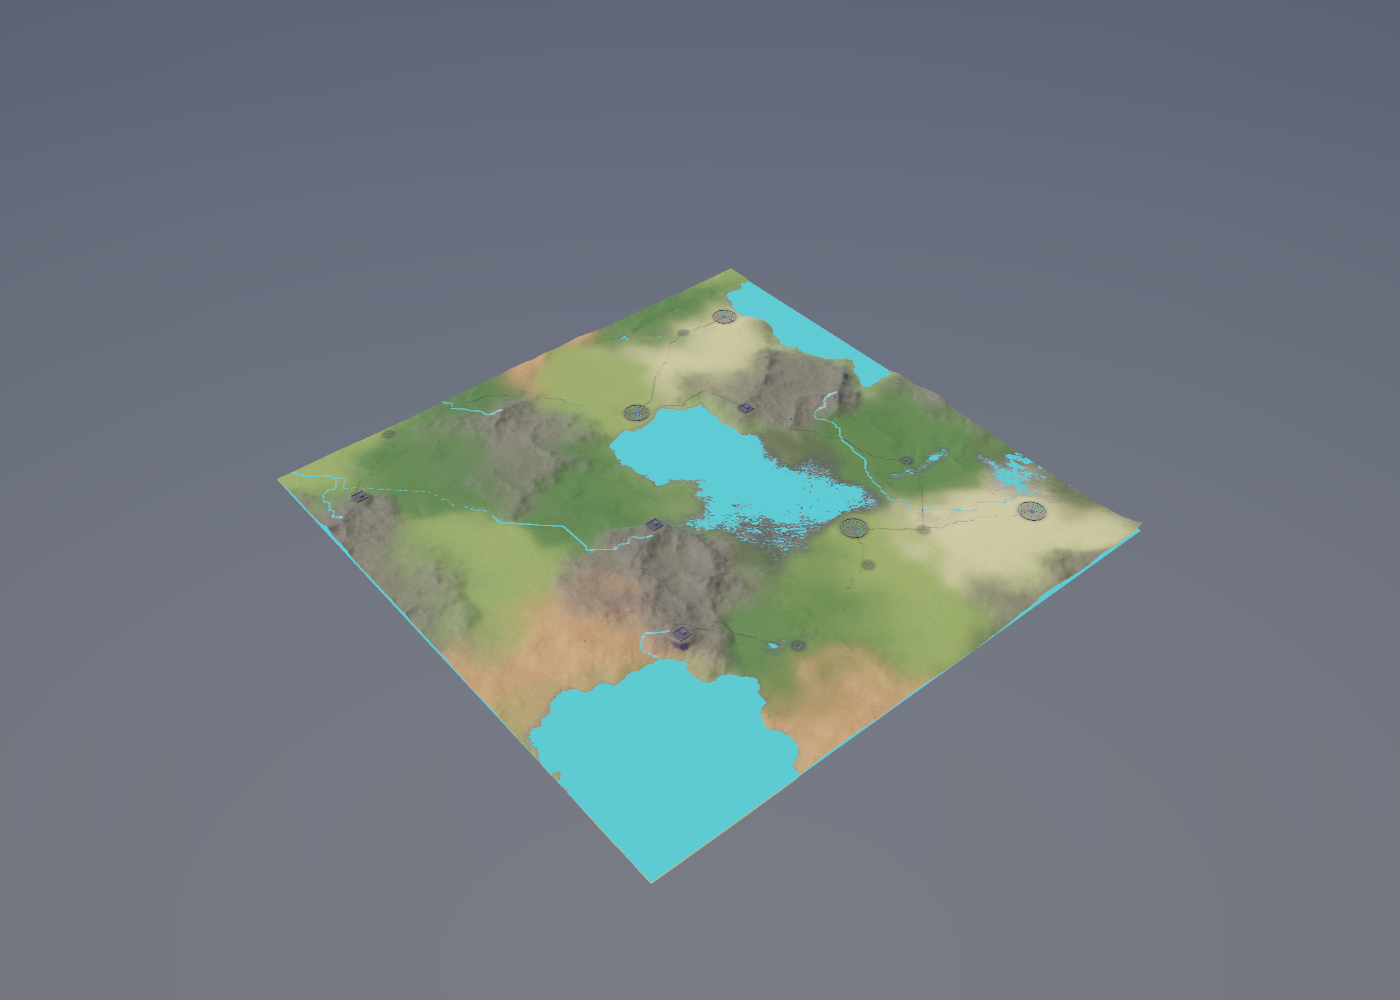
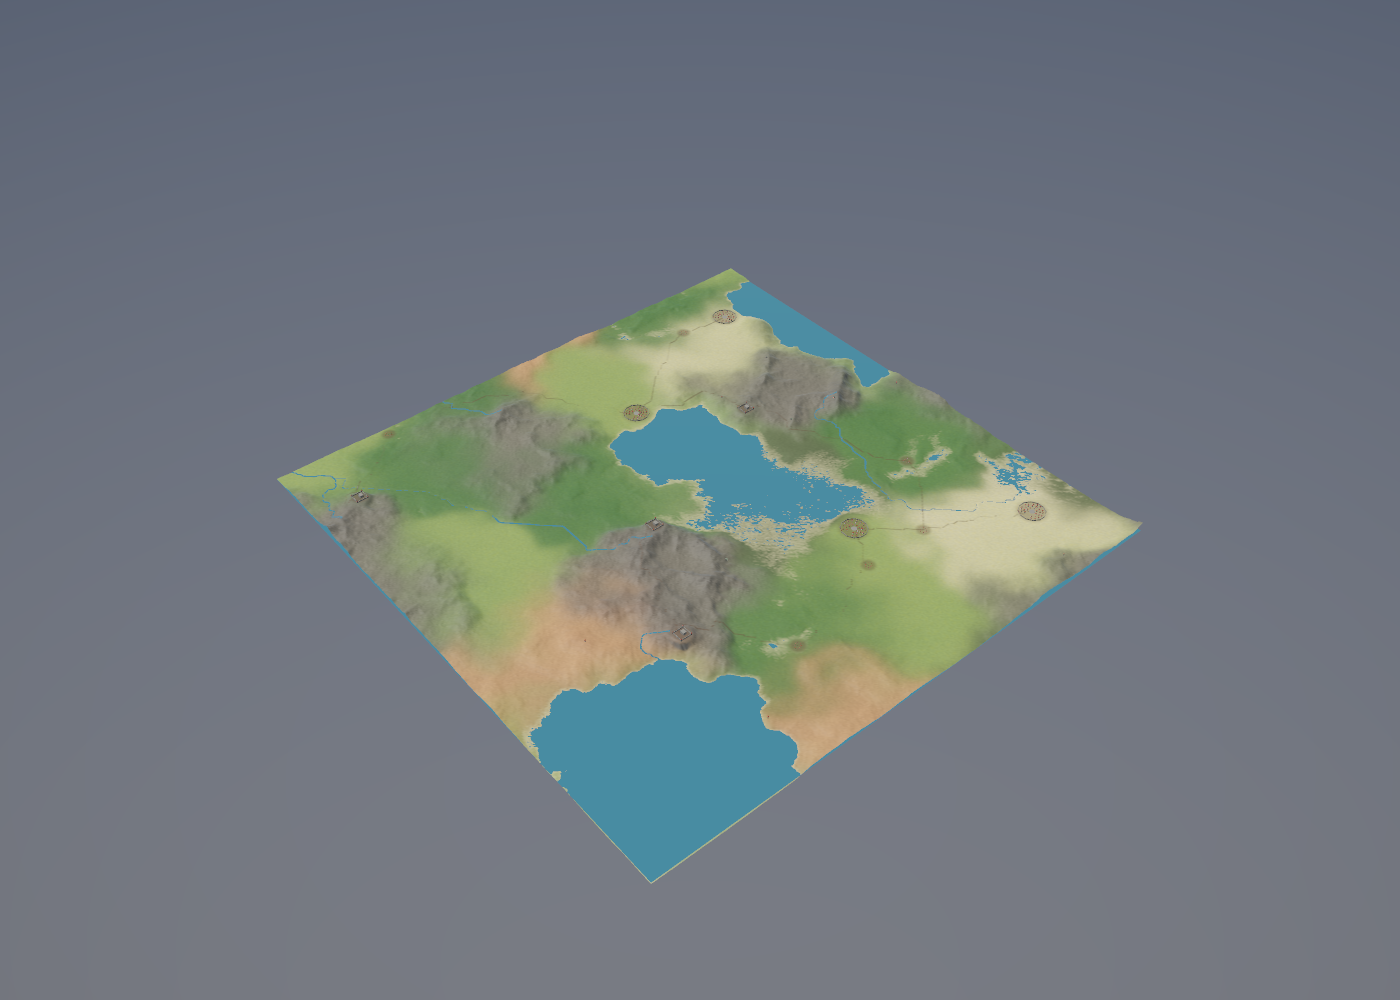
fix: natural fantasy colors for Ravenspire + kill chalky river margins
The mystic palette read as broken colors at world scale (purple forests,
cyan roofs/water) — Ravenspire moves to verdant: green woods, warm red
roofs, deep blue water, same seed-12 layout. Two ground-color fixes
found by chasing the white smears along rivers in the flyovers:
waterfall whitening fired along EVERY carved channel (the carve itself
makes banks steeper than the slope threshold) and is removed; shoreline
foam is now a thin broken surf line gated to flat beaches instead of a
chalky band across wide banks. Everdale + Ravenspire gallery imagery
regenerated with the corrected colors.

diff --git a/src/world/model.rs b/src/world/model.rs
@@ -247,15 +247,13 @@ impl WorldModel {
             let ripple = self.n.sample(wx / 7.0 + wz / 2.3, wz / 34.0);
             c *= 1.0 + ripple * 0.06 * desert;
         }
-        // waterfall whitening where a river channel drops steeply
-        if slope > 0.35 && self.network.river_mask(wx, wz) > 0.0 {
-            c = crate::palette::lerp(c, Vec3::new(0.80, 0.87, 0.90), 0.5);
-        }
-        // shoreline foam band just above the waterline
-        let foam = (1.0 - ((h - sea - 0.25) / 0.45).abs()).clamp(0.0, 1.0);
+        // shoreline foam: a thin, broken surf line right at the waterline —
+        // flat beaches only (wide banks turned into chalky margins)
+        let foam = (1.0 - ((h - sea - 0.12) / 0.16).abs()).clamp(0.0, 1.0)
+            * (1.0 - (slope / 0.25).min(1.0));
         if foam > 0.0 {
-            let fnz = self.n.sample(wx * 0.9 + 3.0, wz * 0.9) * 0.5 + 0.5;
-            c = crate::palette::lerp(c, Vec3::splat(0.90), foam * fnz * 0.45);
+            let fnz = (self.n.sample(wx * 0.9 + 3.0, wz * 0.9) - 0.15).max(0.0);
+            c = crate::palette::lerp(c, Vec3::splat(0.82), foam * fnz * 0.28);
         }
         let shore = (1.0 - ((h - sea).abs() / 2.2)).clamp(0.0, 1.0);
         c = c * (1.0 - shore * 0.55) + pal.terrain[0] * shore * 0.55;